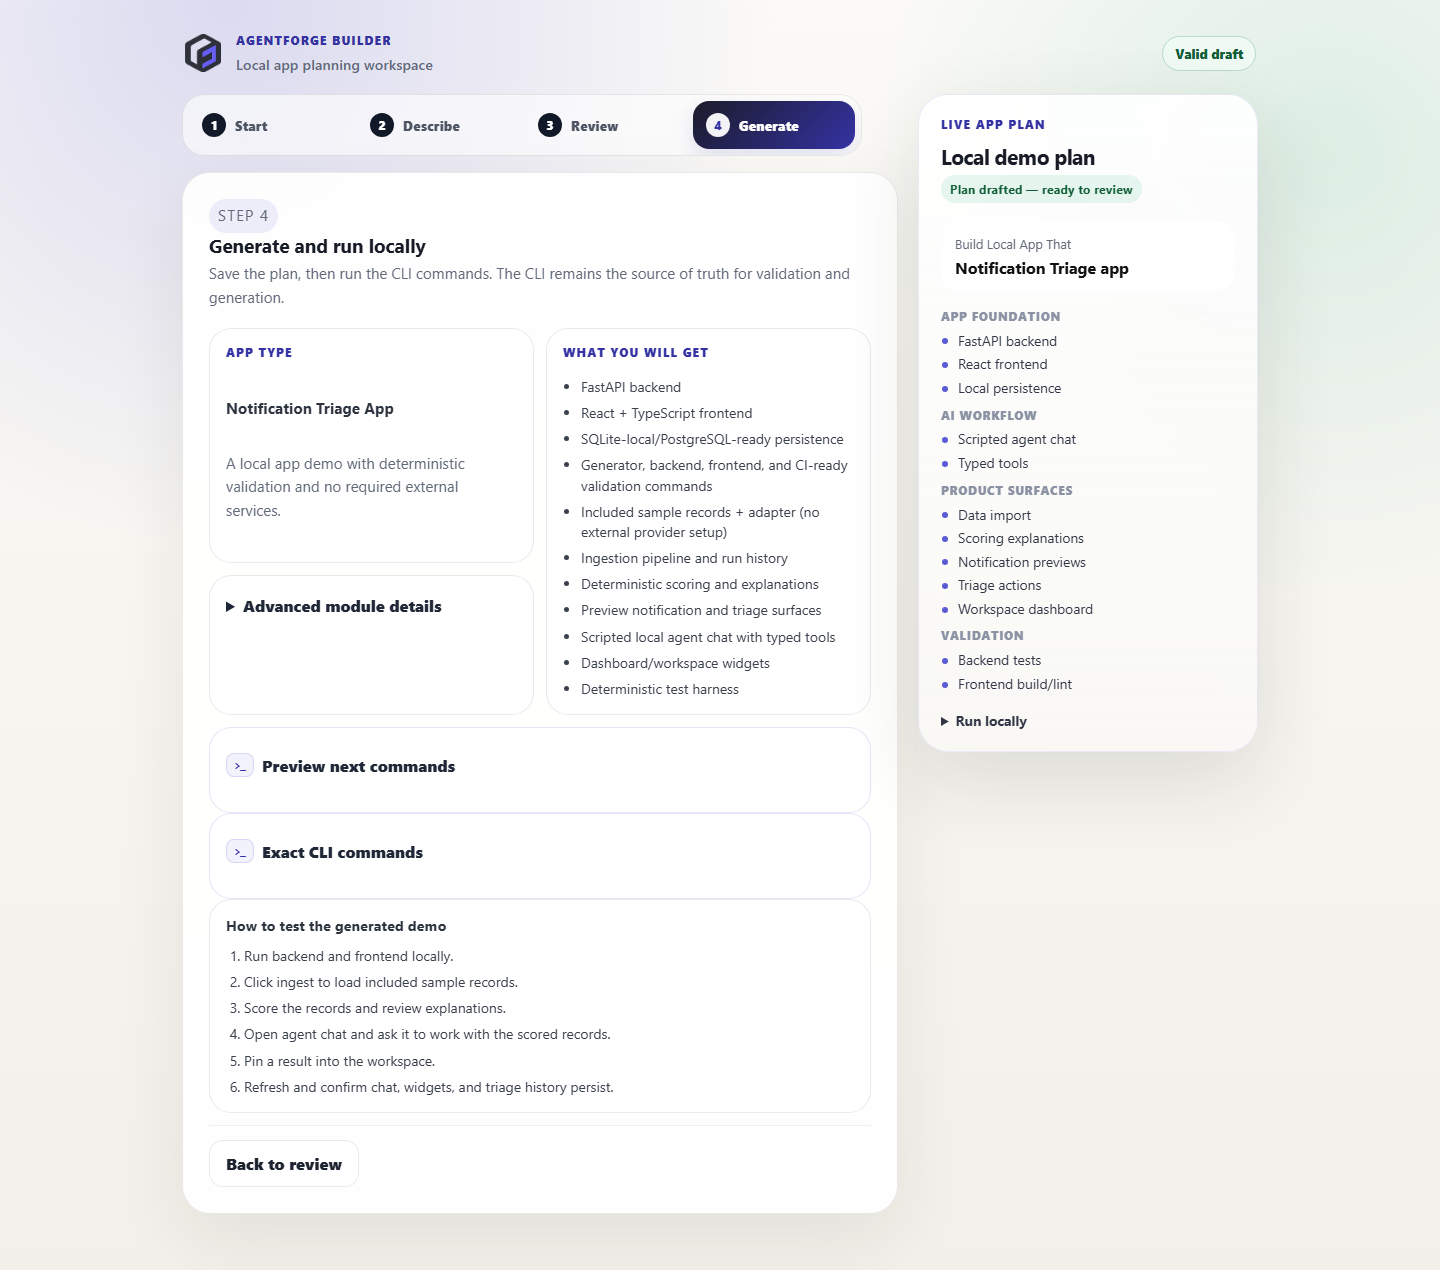
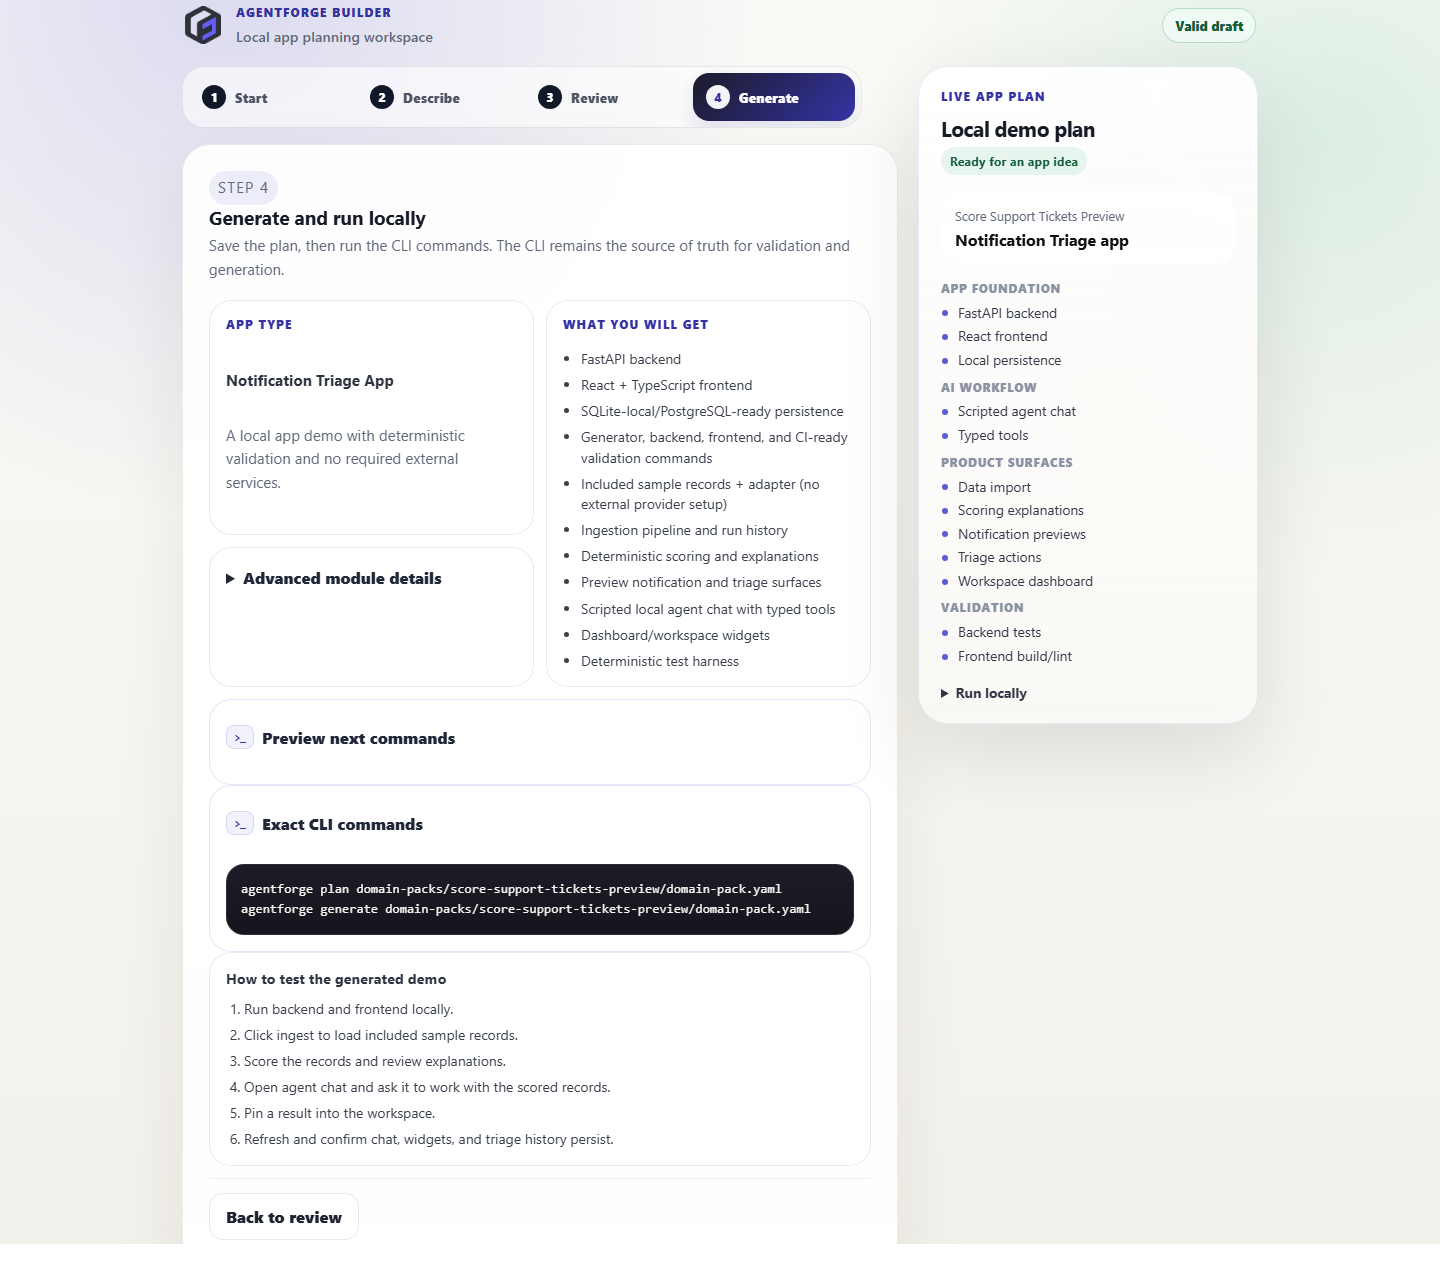
Refresh Builder customization screenshots

diff --git a/README.md b/README.md
@@ -55,7 +55,7 @@ Builder flow:
 | Step | What to look for |
 | --- | --- |
 | ![Builder idea entry screen](docs/assets/screenshots/builder-start.png) | Start with one app idea in the local Builder. |
-| ![Drafted Blueprint and Live app plan](docs/assets/screenshots/builder-plan.png) | Review the drafted plan, assumptions, warnings, and persistent Live app plan before raw YAML. |
+| ![Drafted Blueprint and Live app plan](docs/assets/screenshots/builder-plan.png) | Review the drafted plan, controlled customization fields, assumptions, warnings, and persistent Live app plan before raw YAML. |
 | ![Generate commands in the Builder](docs/assets/screenshots/builder-commands.png) | Copy the exact local CLI commands; the CLI remains the source of truth for validation and generation. |
 
 Scoring and triage generated app:

diff --git a/docs/DEMO_GUIDE.md b/docs/DEMO_GUIDE.md
@@ -160,7 +160,7 @@ Talking points:
 The README uses a small screenshot walkthrough stored in `docs/assets/screenshots/`:
 
 - `builder-start.png` — Builder idea entry screen;
-- `builder-plan.png` — drafted Blueprint review and Live app plan;
+- `builder-plan.png` — drafted Blueprint review, Customize app details panel, and Live app plan;
 - `builder-commands.png` — local generation commands;
 - `generated-scoring.png` — scoring/triage generated app flow;
 - `generated-agent-workspace.png` — scoring app scripted agent pinning a workspace widget;
